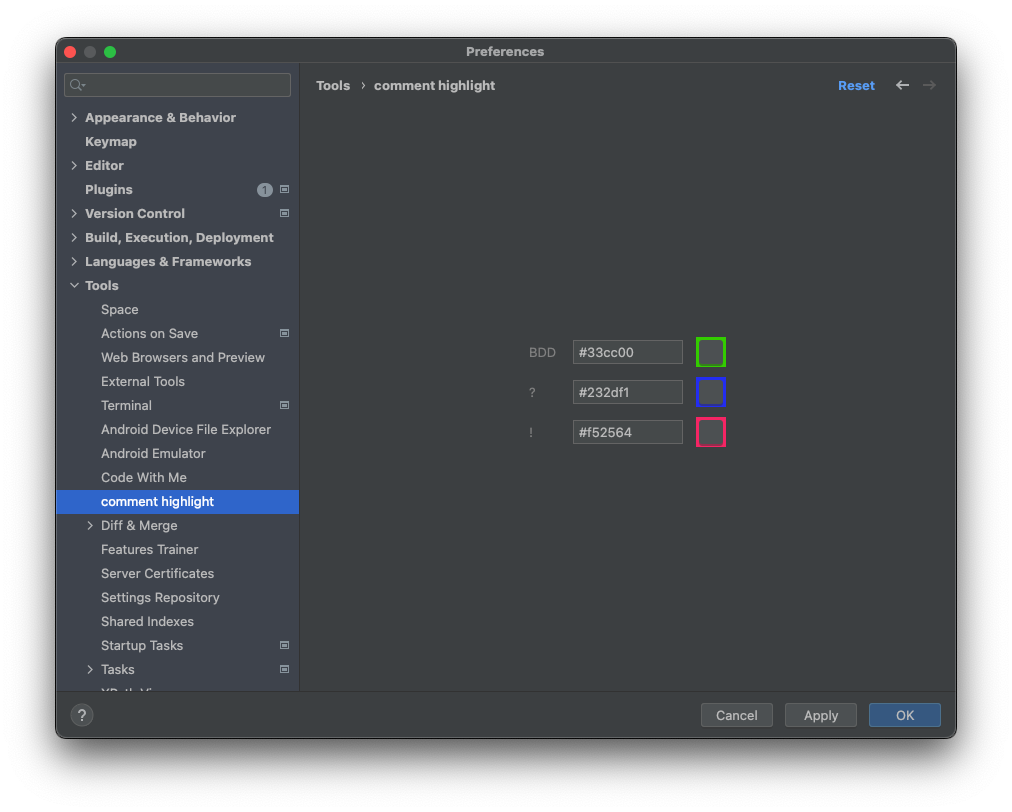
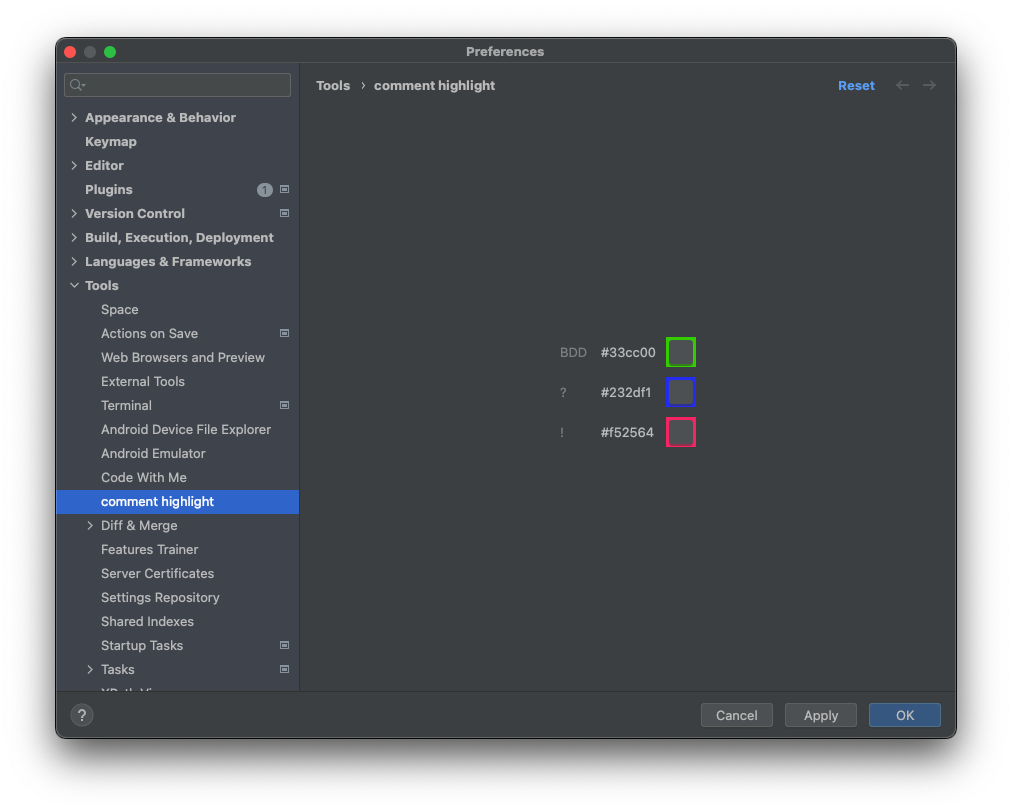
fix: setting id dupliation

Changed region(s): [[0.5208, 0.4002, 0.7352, 0.5542]]

diff --git a/src/main/java/com/birariro/highlight/setting/SettingsComponent.java b/src/main/java/com/birariro/highlight/setting/SettingsComponent.java
@@ -11,9 +11,9 @@ public class SettingsComponent {
   private final Colors colors = new Colors();
   private final AppSettings settings = AppSettings.getInstance();
   private final JPanel panel;
-  private final JTextField bddColorField = new JTextField(10);
-  private final JTextField questionColorField = new JTextField(10);
-  private final JTextField exclamationColorField = new JTextField(10);
+  private final JLabel bddColorLabel = new JLabel();
+  private final JLabel questionColorLabel = new JLabel();
+  private final JLabel exclamationColorLabel = new JLabel();
 
   private final JButton bddColorButton;
   private final JButton questionColorButton;
@@ -23,17 +23,17 @@ public class SettingsComponent {
     panel = new JPanel(new GridBagLayout());
     GridBagConstraints gbc = createGbc();
 
-    bddColorButton = createColorButton(settings.getBddColor(), bddColorField);
-    questionColorButton = createColorButton(settings.getQuestionColor(), questionColorField);
-    exclamationColorButton = createColorButton(settings.getExclamationColor(), exclamationColorField);
+    bddColorButton = createColorButton(settings.getBddColor(), bddColorLabel);
+    questionColorButton = createColorButton(settings.getQuestionColor(), questionColorLabel);
+    exclamationColorButton = createColorButton(settings.getExclamationColor(), exclamationColorLabel);
 
-    bddColorField.setText(colorToRGBString(settings.getBddColor()));
-    questionColorField.setText(colorToRGBString(settings.getQuestionColor()));
-    exclamationColorField.setText(colorToRGBString(settings.getExclamationColor()));
+    bddColorLabel.setText(colorToRGBString(settings.getBddColor()));
+    questionColorLabel.setText(colorToRGBString(settings.getQuestionColor()));
+    exclamationColorLabel.setText(colorToRGBString(settings.getExclamationColor()));
 
-    addColorSetting(gbc, 0, "BDD ", bddColorField, bddColorButton);
-    addColorSetting(gbc, 1, "? ", questionColorField, questionColorButton);
-    addColorSetting(gbc, 2, "! ", exclamationColorField, exclamationColorButton);
+    addColorSetting(gbc, 0, "BDD ", bddColorLabel, bddColorButton);
+    addColorSetting(gbc, 1, "? ", questionColorLabel, questionColorButton);
+    addColorSetting(gbc, 2, "! ", exclamationColorLabel, exclamationColorButton);
   }
 
   private GridBagConstraints createGbc() {
@@ -44,7 +44,7 @@ public class SettingsComponent {
     return gbc;
   }
 
-  private JButton createColorButton(Color initialColor, JTextField colorField) {
+  private JButton createColorButton(Color initialColor, JLabel label) {
     JButton colorButton = new JButton();
     colorButton.setPreferredSize(new Dimension(30, 30));
     colorButton.setBackground(initialColor);
@@ -55,15 +55,16 @@ public class SettingsComponent {
       public void actionPerformed(ActionEvent e) {
         Color chosenColor = showColorChooser(colorButton.getBackground());
         if (chosenColor != null) {
-          colorField.setText(colorToRGBString(chosenColor));
+          label.setText(colorToRGBString(chosenColor));
           colorButton.setBackground(chosenColor);
+          colorButton.setForeground(chosenColor);
         }
       }
     });
     return colorButton;
   }
 
-  private void addColorSetting(GridBagConstraints gbc, int gridY, String labelText, JTextField colorField, JButton colorButton) {
+  private void addColorSetting(GridBagConstraints gbc, int gridY, String labelText, JLabel colorLabel, JButton colorButton) {
     gbc.gridx = 0;
     gbc.gridy = gridY;
     JLabel label = new JLabel(labelText);
@@ -71,7 +72,7 @@ public class SettingsComponent {
     panel.add(label, gbc);
 
     gbc.gridx = 1;
-    panel.add(colorField, gbc);
+    panel.add(colorLabel, gbc);
 
     gbc.gridx = 2;
     panel.add(colorButton, gbc);
@@ -90,26 +91,26 @@ public class SettingsComponent {
   }
 
   public String getQuestionColorString() {
-    return questionColorField.getText();
+    return questionColorLabel.getText();
   }
 
   public String getExclamationColorString() {
-    return exclamationColorField.getText();
+    return exclamationColorLabel.getText();
   }
 
   public String getBddColorString() {
-    return bddColorField.getText();
+    return bddColorLabel.getText();
   }
 
   public void setQuestionColor(Color color) {
-    questionColorField.setText(colorToRGBString(color));
+    questionColorLabel.setText(colorToRGBString(color));
   }
 
   public void setExclamationColor(Color color) {
-    exclamationColorField.setText(colorToRGBString(color));
+    exclamationColorLabel.setText(colorToRGBString(color));
   }
 
   public void setBddColor(Color color) {
-    bddColorField.setText(colorToRGBString(color));
+    bddColorLabel.setText(colorToRGBString(color));
   }
 }

diff --git a/src/main/java/com/birariro/highlight/BddHighlighter.java b/src/main/java/com/birariro/highlight/BddHighlighter.java
@@ -1,10 +1,8 @@
 package com.birariro.highlight;
 
 import com.birariro.highlight.setting.AppSettings;
-import com.birariro.highlight.support.Colors;
 import com.intellij.lang.annotation.AnnotationHolder;
 import com.intellij.lang.annotation.Annotator;
-import com.intellij.openapi.application.ApplicationManager;
 import com.intellij.openapi.editor.colors.TextAttributesKey;
 import com.intellij.openapi.editor.markup.TextAttributes;
 import com.intellij.openapi.util.TextRange;

diff --git a/README.md b/README.md
@@ -3,7 +3,7 @@
     <img src="./src/main/resources/META-INF/pluginIcon.svg" width="100" height="100" alt="logo"/>
 </div>
 
-[marketplace]("https://plugins.jetbrains.com/plugin/24741-comment-highlight")
+[intellij plugin marketplace](https://plugins.jetbrains.com/plugin/24741-comment-highlight)
 
 <p>Supported languages:</p>
 <ul>
